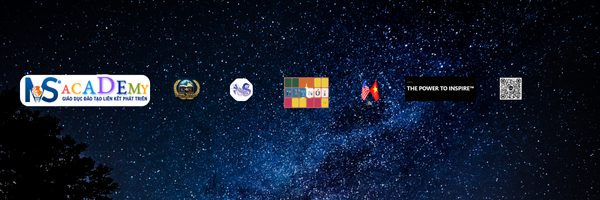
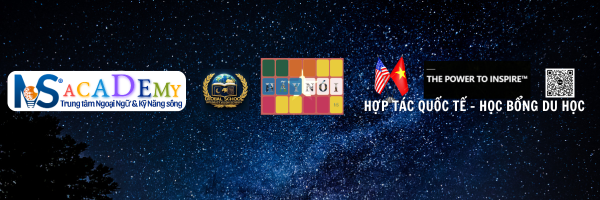
commit

diff --git a/css/styles.css b/css/styles.css
@@ -73,8 +73,11 @@ header {
   text-align: left;
   border-bottom: 1px solid #ddd;
   min-height: 200px;
+  image-rendering: -webkit-optimize-contrast; /* Improve image rendering for Webkit browsers */
+  image-rendering: crisp-edges; /* Improve image rendering for other browsers */
 }
 
+/* Overlay for header */
 header::before {
   content: '';
   position: absolute;
@@ -82,11 +85,11 @@ header::before {
   left: 0;
   width: 100%;
   height: 100%;
-  background-color: rgba(0, 0, 0, 0.7);
+  background-color: rgba(0, 0, 0, 0.4); /* Reduced opacity from 0.7 to 0.4 for better visibility */
   z-index: 0;
 }
 
-/* Đảm bảo các nội dung trong header nằm trên lớp phủ */
+/* Ensure header content is above the overlay */
 .header-top,
 .nav-container,
 .hamburger {
@@ -94,7 +97,7 @@ header::before {
   z-index: 1;
 }
 
-/* Định dạng phần logo và tiêu đề */
+/* Logo and title styling */
 .header-top {
   display: flex;
   align-items: center;
@@ -112,6 +115,7 @@ header::before {
   color: #fff;
   margin: 0;
   font-weight: 700;
+  text-shadow: 1px 1px 2px rgba(0, 0, 0, 0.5); /* Add subtle shadow for better readability */
 }
 
 .header-text h3 {
@@ -119,6 +123,41 @@ header::before {
   color: #ddd;
   margin: 2px 0;
   font-weight: 400;
+  text-shadow: 1px 1px 2px rgba(0, 0, 0, 0.5); /* Add subtle shadow for better readability */
+}
+
+/* Hamburger menu */
+.hamburger {
+  display: none;
+  font-size: 28px;
+  background: none;
+  border: none;
+  cursor: pointer;
+  position: absolute;
+  top: 15px;
+  left: 15px;
+  color: #fff;
+  z-index: 1001;
+}
+
+/* Responsive adjustments for header */
+@media (max-width: 600px) {
+  header {
+    min-height: 150px;
+    padding: 10px 15px;
+  }
+
+  .header-text h1 {
+    font-size: 24px;
+  }
+
+  .header-text h3 {
+    font-size: 14px;
+  }
+
+  .header-top img {
+    width: 50px;
+  }
 }
 
 /* Hamburger menu */

diff --git a/header.html b/header.html
@@ -56,14 +56,7 @@
       <li><a href="https://english-placement.netlify.app"><i class="fas fa-clipboard-check"></i> BÀI TEST TIẾNG ANH 6 BẬC</a></li>
     </ul>
   </div>
-  <div class="header-top">
-    <img src="images/logo.png" alt="IVS Academy Logo">
-    <div class="header-text">
-      <h1>IVS Academy</h1>
-      <h3>Trung tâm Ngoại ngữ & Kỹ năng sống</h3>
-      <h3>Hợp tác Quốc tế - Học bổng Du học</h3>
-    </div>
-  </div>
+
   <div class="nav-container">
     <div class="nav-content">
       <ul class="nav-tabs">
